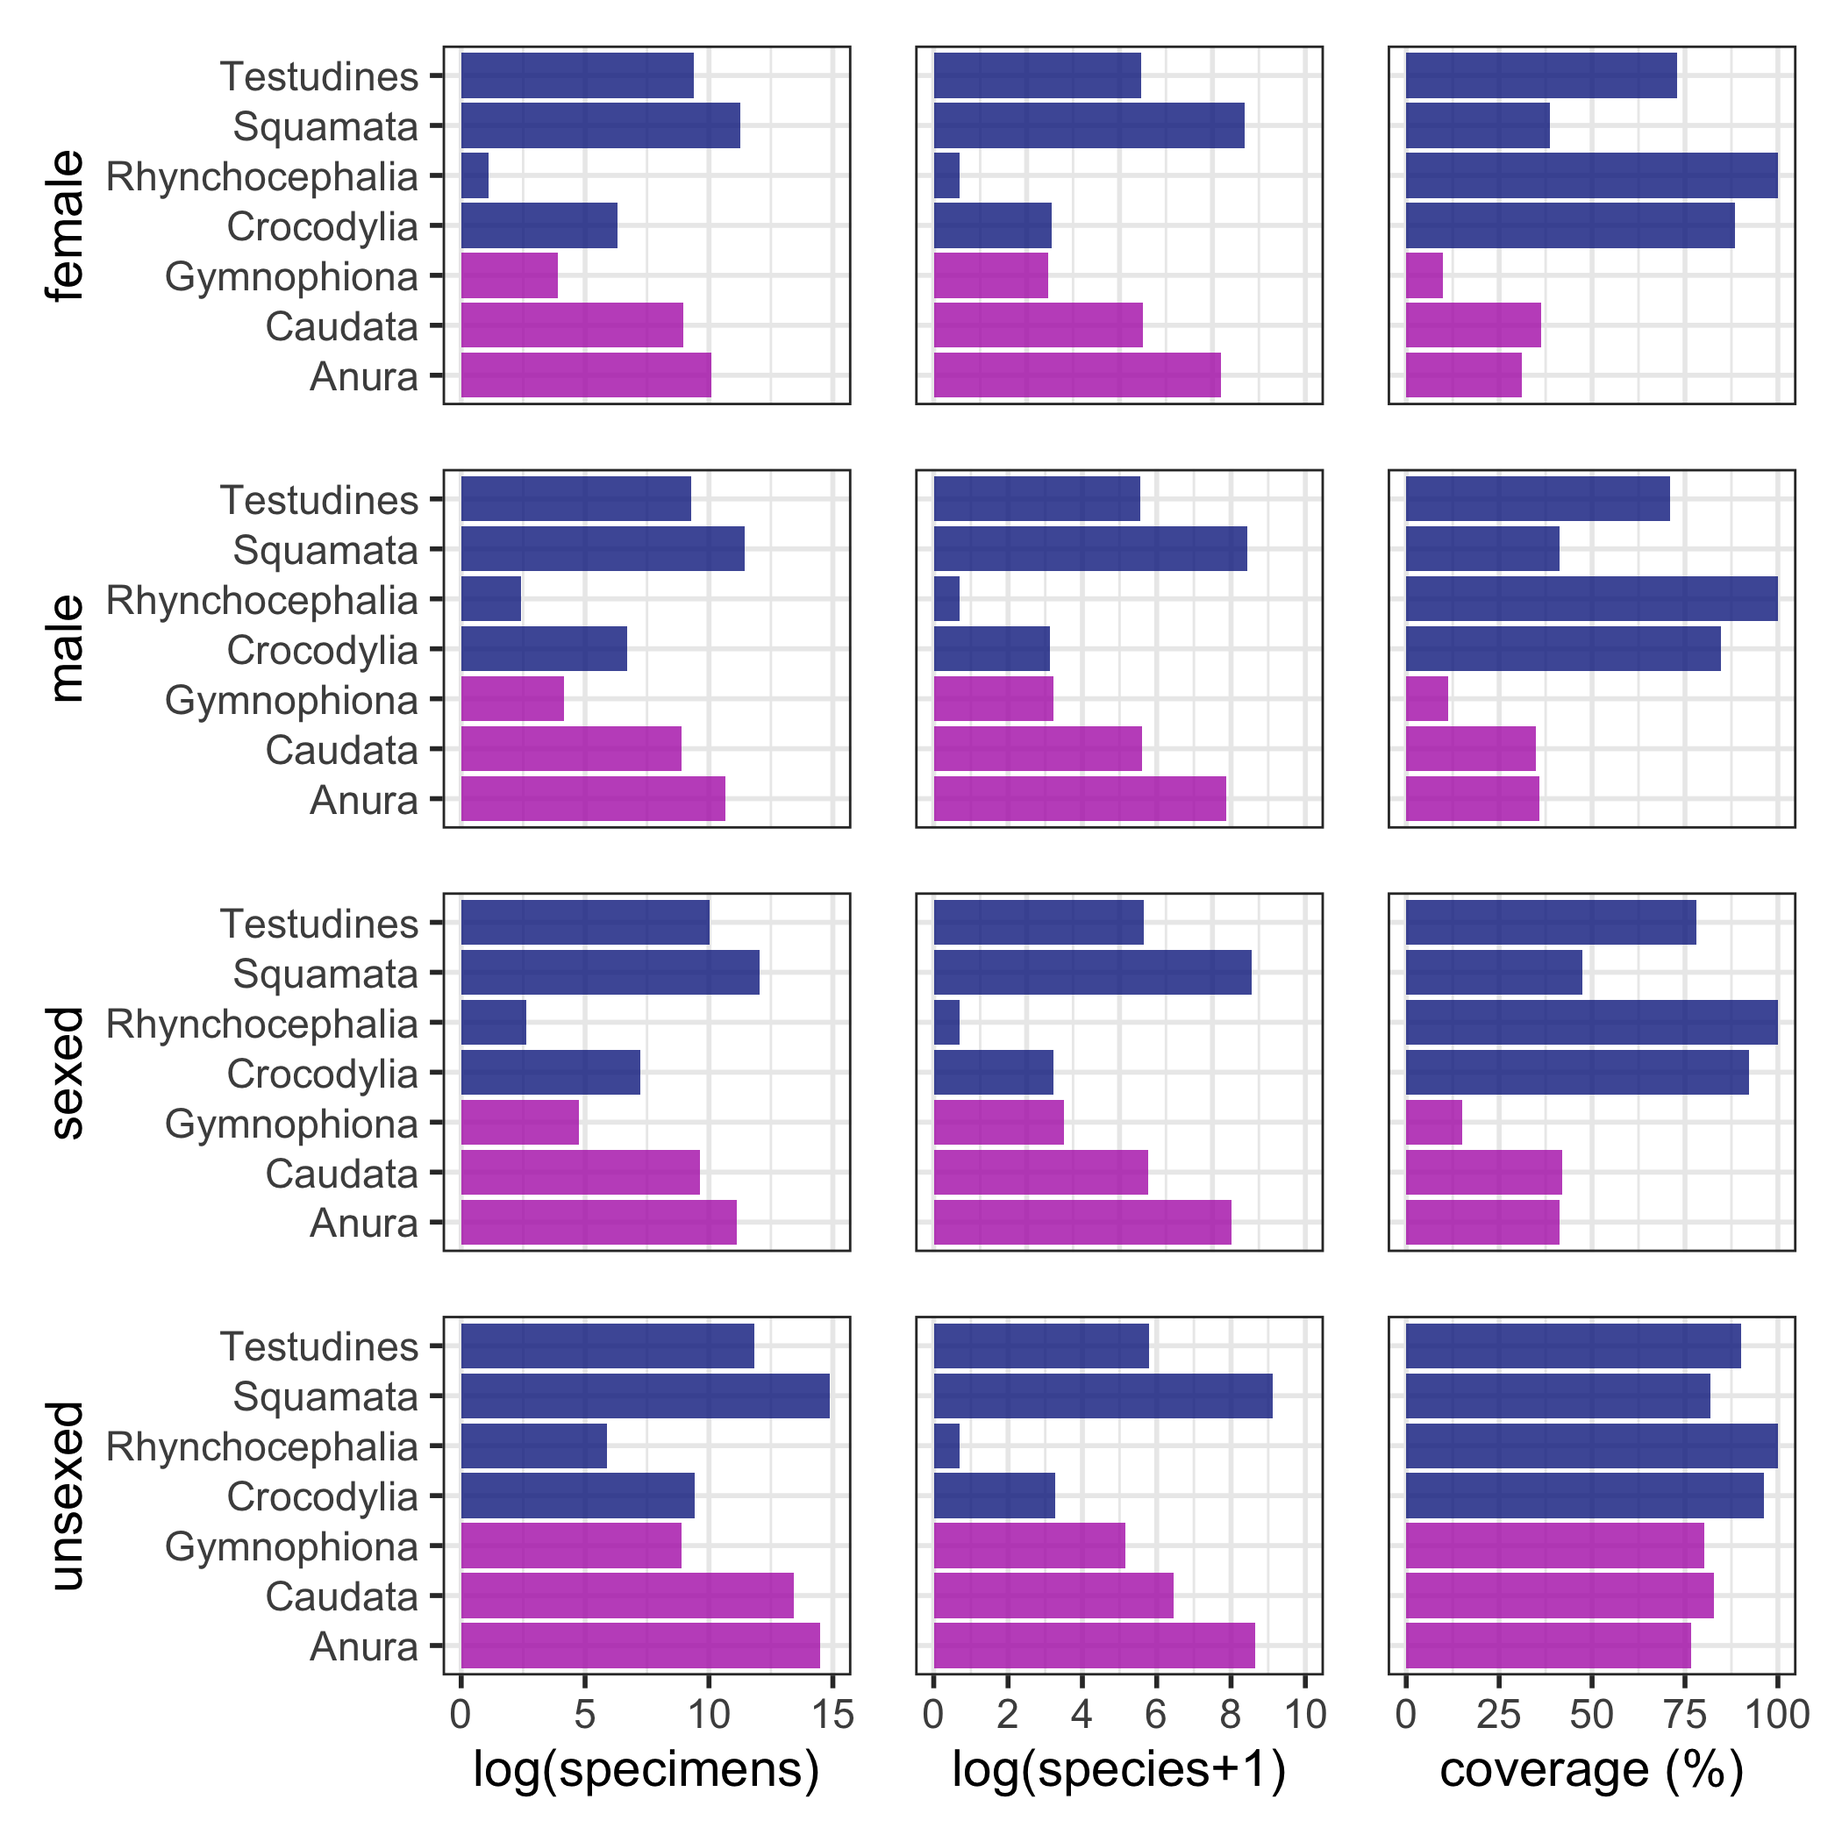
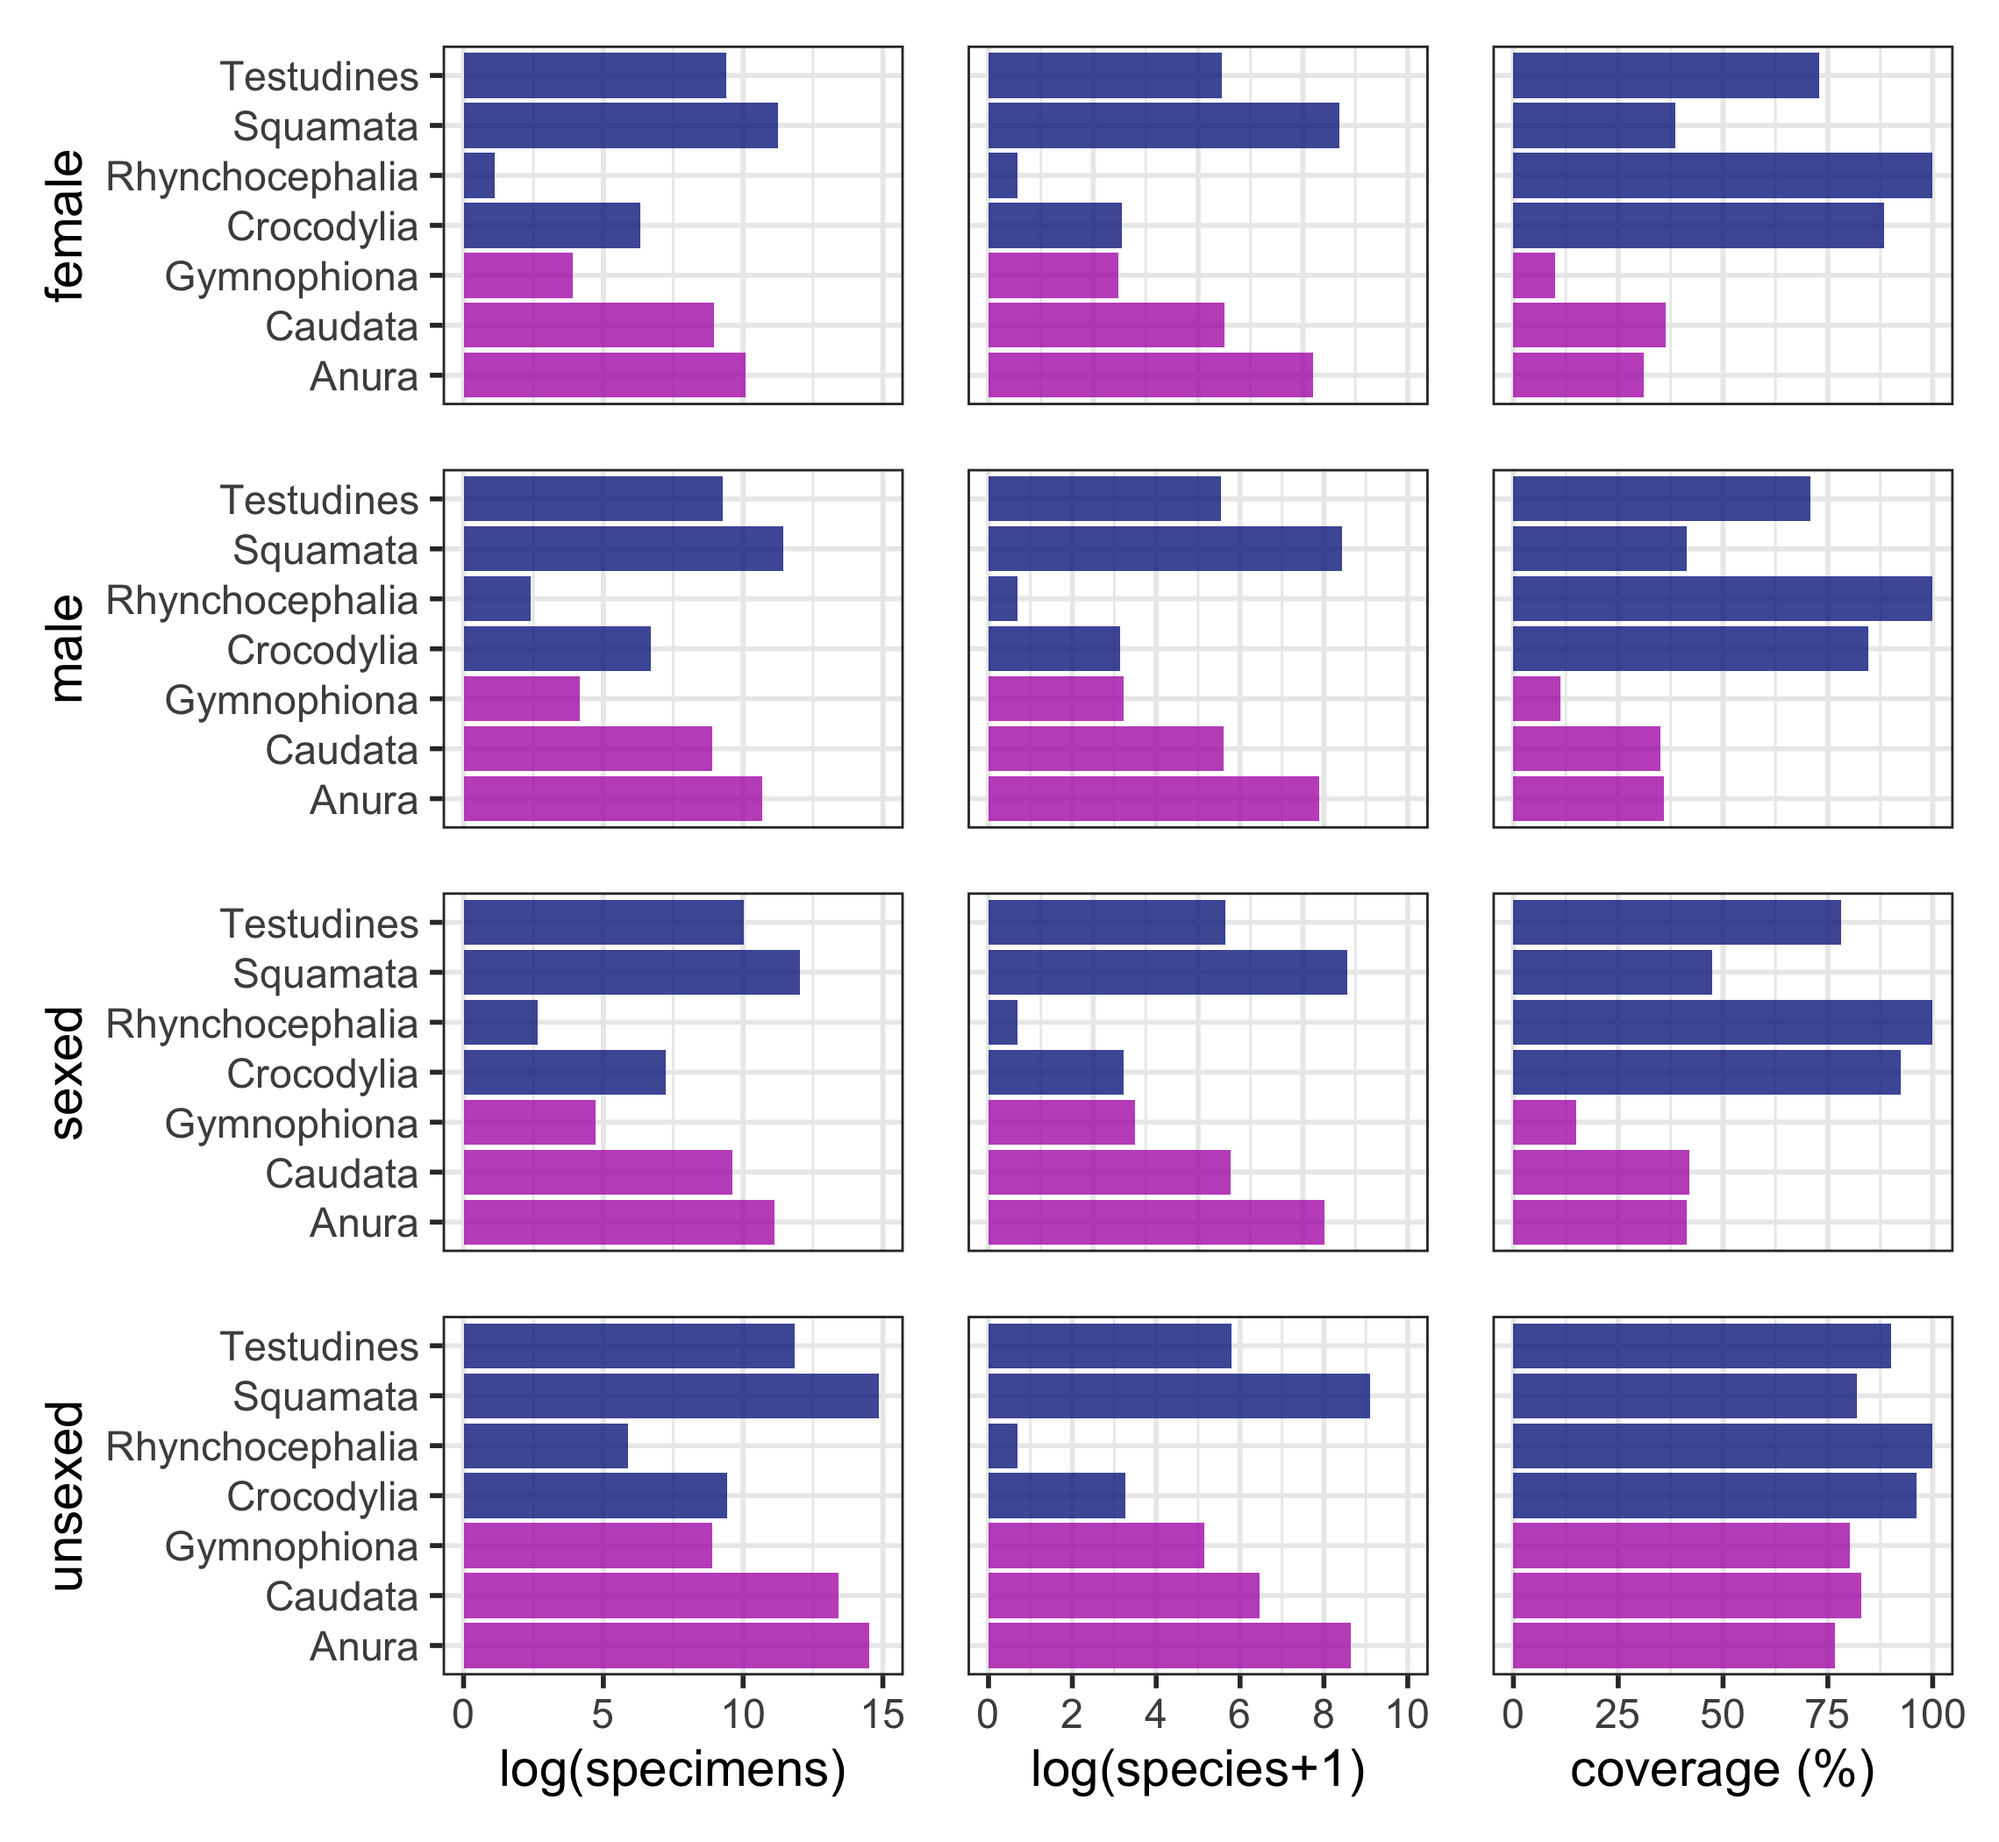
Rebuild figures and tables with most up to date dataset

diff --git a/manuscript/herp-sex-bias-supplemental.tex b/manuscript/herp-sex-bias-supplemental.tex
@@ -28,7 +28,7 @@
 % Title page information
 %-------------------------------------------------------------------------------
 
-\title{Supplementary Materials from: \textit{Sex biases in bird and mammal natural history collections}; journal}
+\title{Supplementary Materials from: \textit{TITLE}; journal}
 
 \author{Tara Wainwright, 
   Morwenna Trevenna, 
@@ -52,9 +52,15 @@
 \addtolength{\parskip}{.3em}
 
 %-------------------------------------------------------------------------------
-% Integrated supp mat
+% Supplementary materials
 %-------------------------------------------------------------------------------
+\newpage
+\section{Number of specimens in the data}
 
+% Table A1
+\input{figures/table-numbers-A1}
+
+%-------------------------------------------------------------------------------
 \newpage
 \section{Numbers of specimens for each species}
 
@@ -83,13 +89,6 @@ There is no significant relationship between the number of specimens and the pro
   Hex bins are used rather than points to make the plot easier to read.}
   \label{fig-hex}
 \end{figure}
-
-%-------------------------------------------------------------------------------
-%\newpage
-%\section{Genus-level data}
-
-% Table A1
-% \input{figures/table-genus}
 
 %-------------------------------------------------------------------------------
 \newpage
@@ -446,6 +445,10 @@ There were significantly more females in species where the female is the larger 
 %-------------------------------------------------------------------------------
 \newpage
 % References
+
+% Add reference list for the body size data.
+
+
 \bibliographystyle{vancouver}
 \bibliography{sex-bias}
 

diff --git a/manuscript/figures/table-orders.tex b/manuscript/figures/table-orders.tex
@@ -1,5 +1,5 @@
 % latex table generated in R 4.1.0 by xtable 1.8-4 package
-% Wed Aug 11 15:33:26 2021
+% Wed Apr 13 16:00:20 2022
 \begin{longtable}{llccc}
 \caption{Median percentages of female specimens within species with at least 
                    10 specimens, or each order of amphibians and reptiles. 
@@ -8,7 +8,7 @@
 class & order & n species & n specimens & \% female \\ 
   \hline
 Amphibians & Anura & 1013 & 60585 & 36.36 \\ 
-  Amphibians & Caudata & 129 & 14629 & 50.00 \\ 
+  Amphibians & Caudata & 130 & 14644 & 50.00 \\ 
   Amphibians & Gymnophiona &   1 &  19 & 52.63 \\ 
   Reptiles & Crocodylia &  14 & 1315 & 40.83 \\ 
   Reptiles & Rhynchocephalia &   1 &  14 & 21.43 \\ 

diff --git a/manuscript/figures/table-sexed-orders.tex b/manuscript/figures/table-sexed-orders.tex
@@ -1,5 +1,5 @@
 % latex table generated in R 4.1.0 by xtable 1.8-4 package
-% Wed Aug 11 15:41:21 2021
+% Wed Apr 13 16:00:11 2022
 \begin{longtable}{llccc}
 \caption{Median percentages of sexed specimens within species with at least 
                    10 specimens, or each order of amphibians and reptiles.} \\ 
@@ -12,7 +12,7 @@ Amphibians & Anura & 4230 & 2049682 & 1.24 \\
   Reptiles & Crocodylia &  24 & 13642 & 5.08 \\ 
   Reptiles & Rhynchocephalia &   1 & 374 & 3.74 \\ 
   Reptiles & Squamata & 6408 & 2997110 & 3.61 \\ 
-  Reptiles & Testudines & 295 & 161747 & 10.45 \\ 
+  Reptiles & Testudines & 295 & 161745 & 10.45 \\ 
    \hline
 \hline
 \label{table-orders}

diff --git a/manuscript/figures/table-best.tex b/manuscript/figures/table-best.tex
@@ -1,7 +1,7 @@
 % latex table generated in R 4.1.0 by xtable 1.8-4 package
-% Wed Aug 11 16:32:01 2021
+% Wed Apr 13 15:59:23 2022
 \begin{longtable}{llcc}
-\caption{Best and worst} \\ 
+\caption{Best with >=10 specimens over 75% female} \\ 
   \hline
 class & binomial & n specimens & \% female \\ 
   \hline

diff --git a/manuscript/figures/table-worst.tex b/manuscript/figures/table-worst.tex
@@ -1,5 +1,5 @@
 % latex table generated in R 4.1.0 by xtable 1.8-4 package
-% Wed Aug 11 16:32:02 2021
+% Wed Apr 13 15:59:25 2022
 \begin{longtable}{llcc}
 \caption{Worst with >=10 specimens under 25% female} \\ 
   \hline
